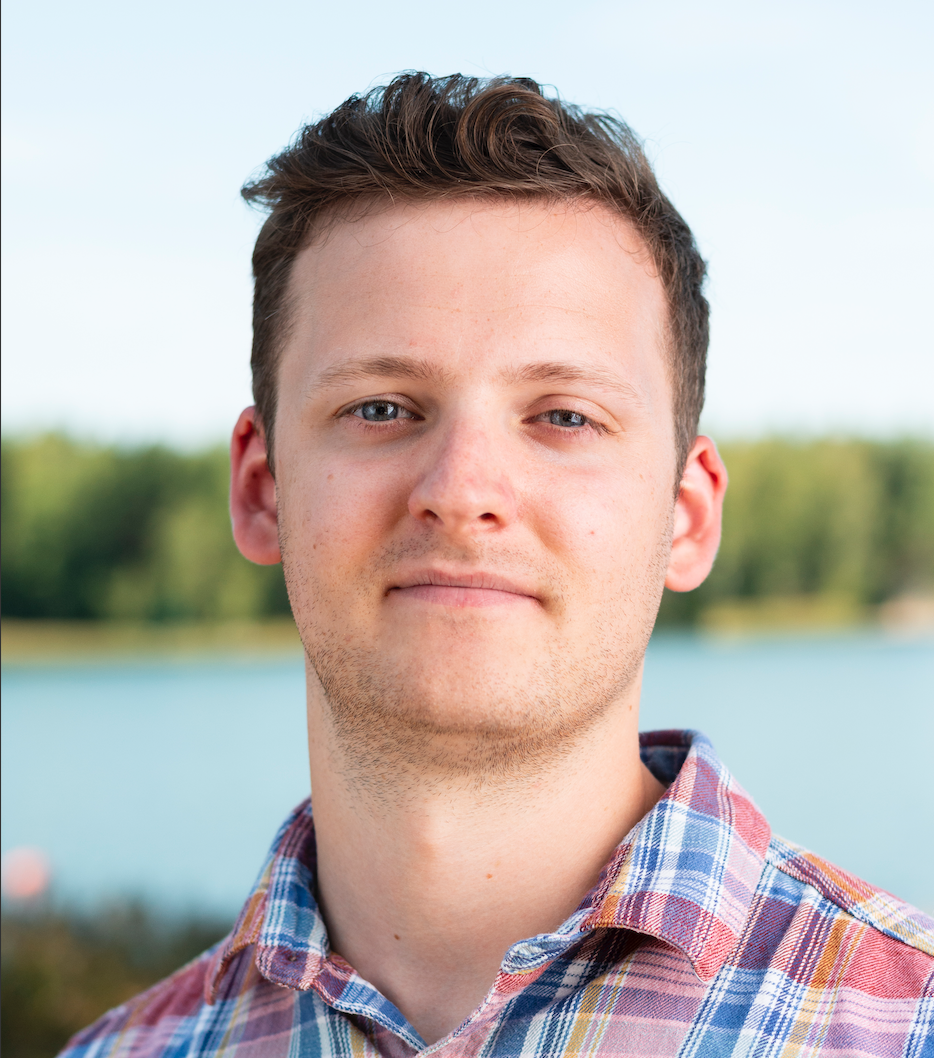
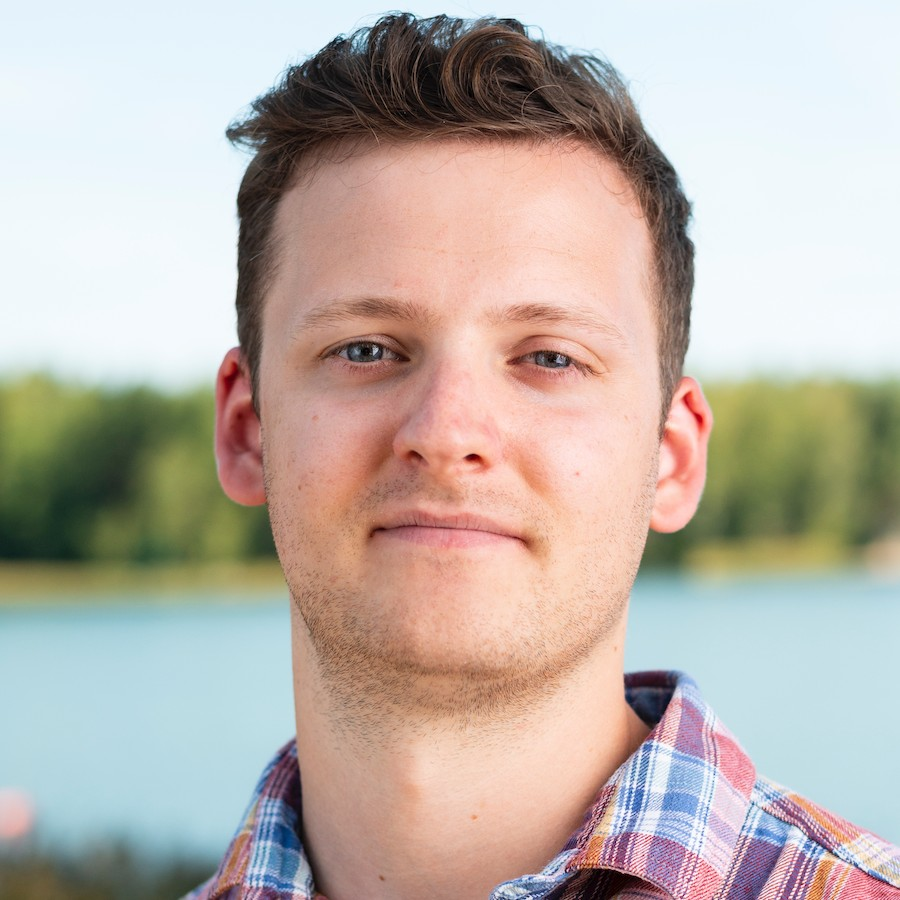
re-format

diff --git a/_includes/header.html b/_includes/header.html
@@ -23,14 +23,14 @@
                         <a class="page-scroll" href="#posts">Posts</a>
                     </li>
                     <li>
-                        <a class="page-scroll" href="#profile">Profile</a>
+                        <a class="page-scroll" href="#about">About</a>
                     </li>
-                    <li>
+                    <!-- <li>
                         <a class="page-scroll" href="#interests">Interests</a>
                     </li>
                     <li>
                         <a class="page-scroll" href="#contact">Contact</a>
-                    </li>
+                    </li> -->
                 </ul>
             </div>
             <!-- /.navbar-collapse -->
@@ -42,9 +42,9 @@
     <header>
         <div class="container">
             <div class="intro-text">
-                <div class="intro-lead-in">Thanks for visiting!</div>
-                <div class="intro-heading">Under construction</div>
-                <a href="#posts" class="page-scroll btn btn-xl">Take a look</a>
+                <div class="intro-lead-in"> </div>
+                <div class="intro-heading"> </div>
+                <a href="#posts" class="page-scroll btn btn-xl">Check out my articles</a>
             </div>
         </div>
     </header>

diff --git a/_includes/about.html b/_includes/about.html
@@ -1,9 +1,9 @@
 <!-- Profile Section -->
-    <section id="profile">
+    <section id="about">
         <div class="container">
             <div class="row">
                 <div class="col-lg-12 text-center">
-                    <h2 class="section-heading">Profile</h2>
+                    <h2 class="section-heading">About</h2>
                     <h3 class="section-subheading text-muted">A quick overview of me...</h3>
                 </div>
             </div>
@@ -11,7 +11,7 @@
                 {% for member in site.people %}
                 <div class="col-lg-12">
                     <div class="profile-member">
-                        <img src="{{ site.baseurl }}/img/profile/{{ member.pic }}.jpg" class="profile-pic img-responsive img-circle img-centered" alt="">
+                        <img src="{{ site.baseurl }}/img/profile/{{ member.pic }}.jpg" class="profile-pic img-responsive img-square img-centered" alt="">
                         <h4>{{ member.name }}</h4>
                         <p class="text-muted">{{ member.position }}</p>
                         <ul class="list-inline social-buttons">

diff --git a/_layouts/default.html b/_layouts/default.html
@@ -7,9 +7,7 @@
 
     {% include header.html %}
     {% include posts_grid.html %}
-    {% include profile.html %}
-    {% include interests.html %}
-    {% include contact.html %}
+    {% include about.html %}
     {% include footer.html %}
     {% include modals.html %}
     {% include js.html %}

diff --git a/_site/assets/css/styles.css b/_site/assets/css/styles.css
@@ -1,2 +1,3 @@
-.current {
-  color: green; }
+.current { color: green; }
+
+/*# sourceMappingURL=styles.css.map */
